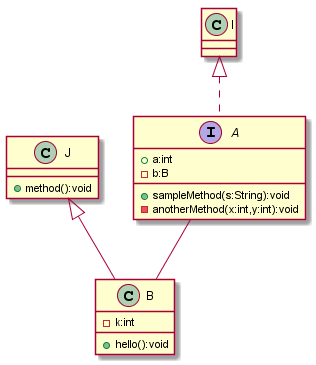
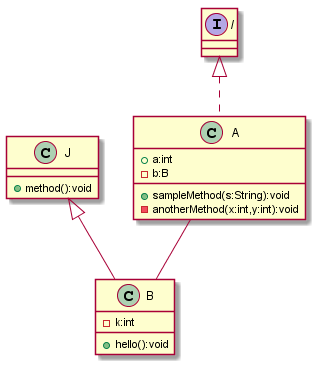
fixed: incorrectly displaying class and interface declarations

Changed region(s): [[0.6551, 0.0, 0.7975, 0.1808], [0.6266, 0.3315, 0.712, 0.3918], [0.7405, 0.3315, 0.769, 0.3918]]

diff --git a/PersonalProject/Outputs/output.java b/PersonalProject/Outputs/output.java
@@ -15,6 +15,6 @@ class J{
 +method():void
 }
 class A--class B
-class I<|..interface A
+interface I<|..class A
 class J<|--class B
 @enduml
